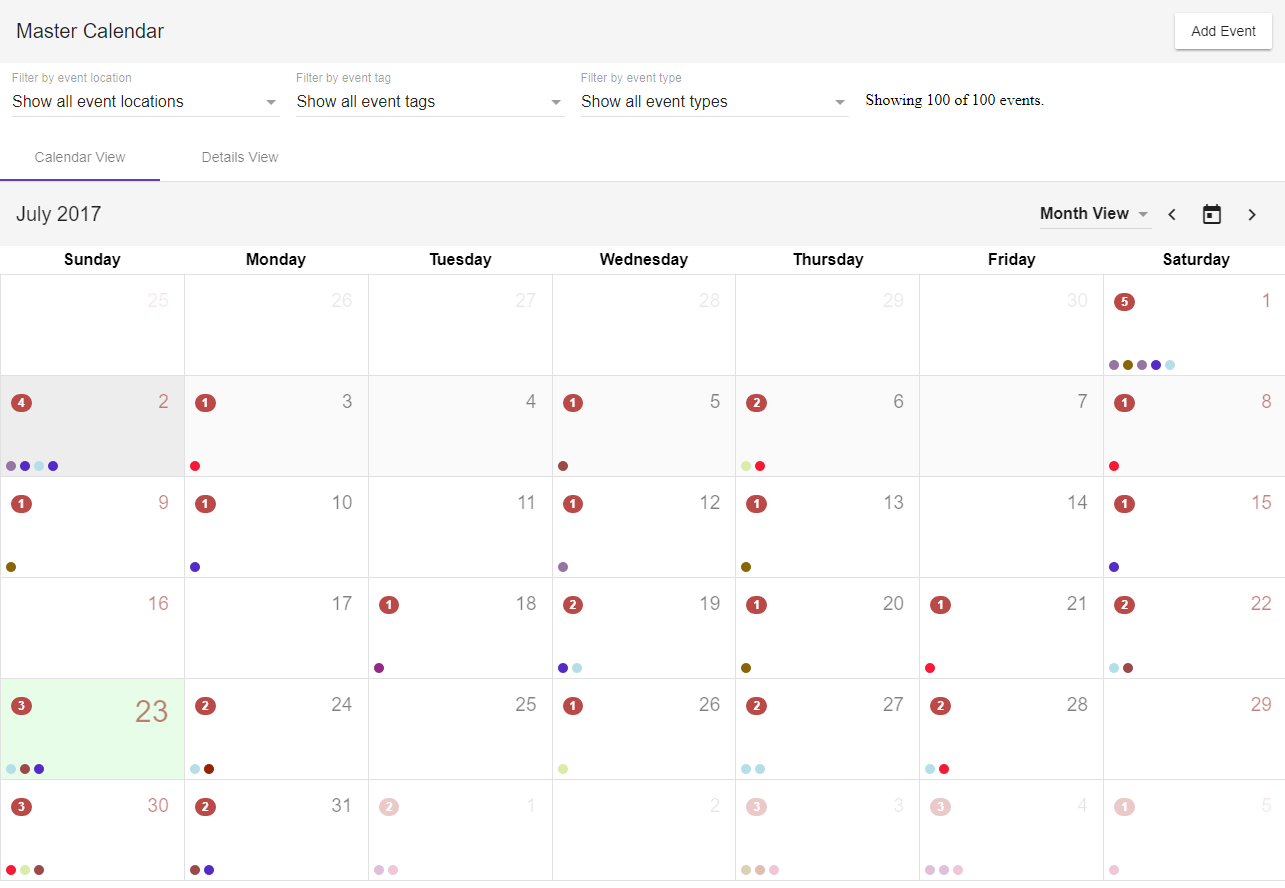
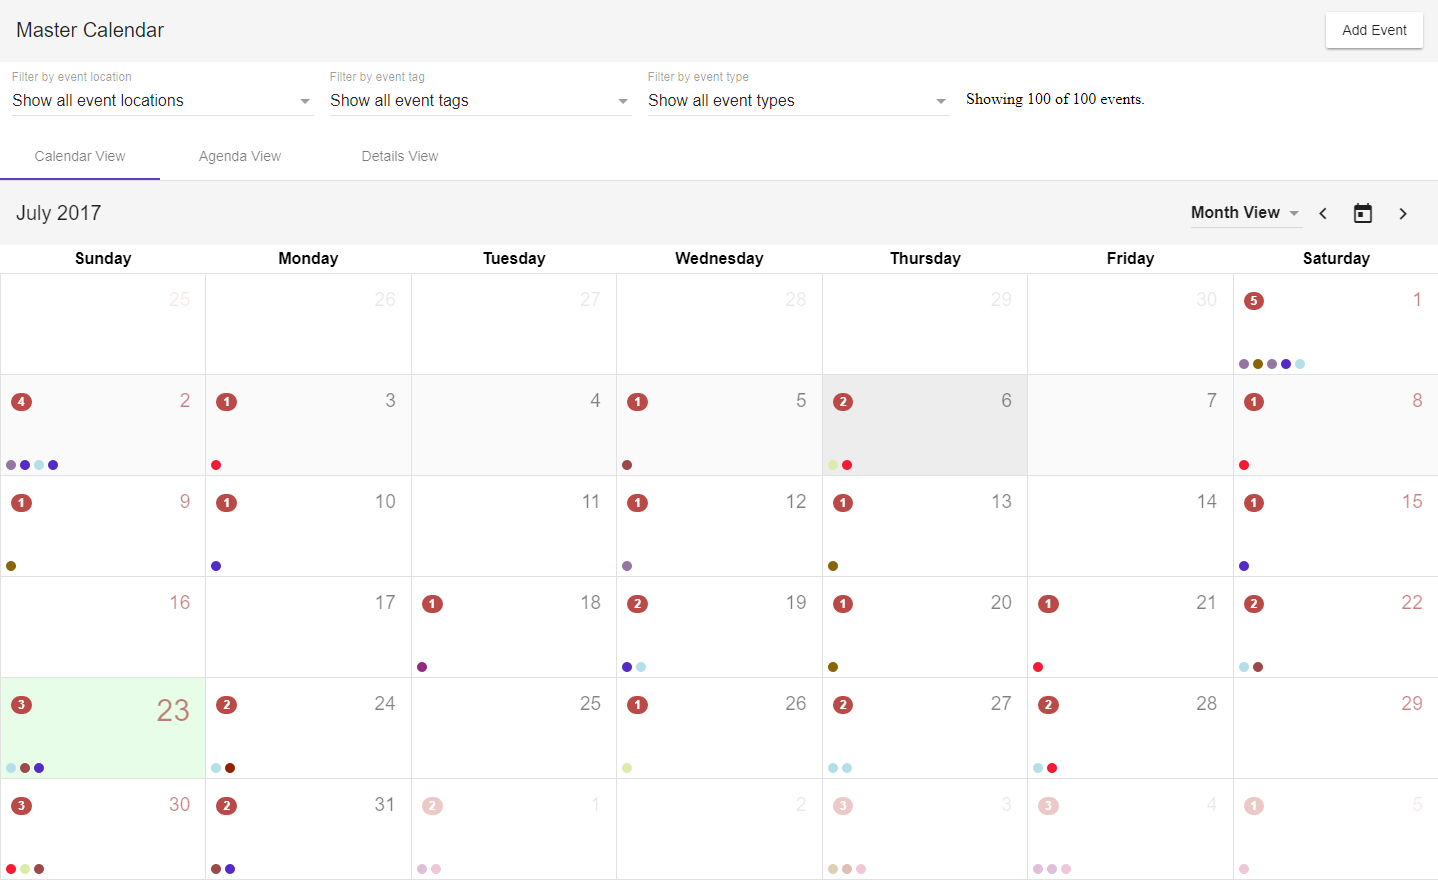
feat: add event agenda view, closes #10

diff --git a/src/app/shared/app-shared.module.ts b/src/app/shared/app-shared.module.ts
@@ -9,6 +9,7 @@ import { AngularFireDatabaseModule } from 'angularfire2/database';
 import { ConfirmDialogComponent } from './../dialogs/confirm-dialog/confirm-dialog.component';
 import { EditEventDialogComponent } from './../dialogs/edit-event-dialog/edit-event-dialog.component';
 import { ViewEventDialogComponent } from './../dialogs/view-event-dialog/view-event-dialog.component';
+import { EventAgendaViewComponent } from './components/event-agenda-view/event-agenda-view.component';
 import { EventCalendarViewComponent } from './components/event-calendar-view/event-calendar-view.component';
 import { EventDetailsViewComponent } from './components/event-details-view/event-details-view.component';
 import { EventFilterComponent } from './components/event-filter/event-filter.component';
@@ -25,6 +26,7 @@ import { FirebaseService } from './services/firebase.service';
 const components = [
   ConfirmDialogComponent,
   EditEventDialogComponent,
+  EventAgendaViewComponent,
   EventCalendarViewComponent,
   EventDetailsViewComponent,
   EventFilterComponent,

diff --git a/src/app/shared/components/event-agenda-view/event-agenda-view.component.ts b/src/app/shared/components/event-agenda-view/event-agenda-view.component.ts
@@ -1,0 +1,23 @@
+import { Component, Input } from '@angular/core';
+import { MdDialog } from '@angular/material';
+
+import { ViewEventDialogComponent } from './../../../dialogs/view-event-dialog/view-event-dialog.component';
+import { EventsService, EventDetail } from './../../services/events.service';
+import { BaseEventViewComponent } from './../base-event-view.component';
+
+@Component({
+  selector: 'app-event-agenda-view',
+  templateUrl: './event-agenda-view.component.html',
+  styleUrls: ['./event-agenda-view.component.scss']
+})
+export class EventAgendaViewComponent extends BaseEventViewComponent {
+  @Input() events: EventDetail[];
+
+  constructor(dialogService: MdDialog, eventsService: EventsService) {
+    super(dialogService, eventsService);
+  }
+
+  getEndFormat(event: EventDetail) {
+    return ViewEventDialogComponent.getEndFormat(event);
+  }
+}

diff --git a/src/app/shared/components/event-agenda-view/event-agenda-view.component.spec.ts b/src/app/shared/components/event-agenda-view/event-agenda-view.component.spec.ts
@@ -1,0 +1,25 @@
+import { async, ComponentFixture, TestBed } from '@angular/core/testing';
+
+import { EventAgendaViewComponent } from './event-agenda-view.component';
+
+describe('EventAgendaViewComponent', () => {
+  let component: EventAgendaViewComponent;
+  let fixture: ComponentFixture<EventAgendaViewComponent>;
+
+  beforeEach(async(() => {
+    TestBed.configureTestingModule({
+      declarations: [ EventAgendaViewComponent ]
+    })
+    .compileComponents();
+  }));
+
+  beforeEach(() => {
+    fixture = TestBed.createComponent(EventAgendaViewComponent);
+    component = fixture.componentInstance;
+    fixture.detectChanges();
+  });
+
+  it('should be created', () => {
+    expect(component).toBeTruthy();
+  });
+});

diff --git a/src/app/dialogs/view-event-dialog/view-event-dialog.component.ts b/src/app/dialogs/view-event-dialog/view-event-dialog.component.ts
@@ -22,7 +22,7 @@ export class ViewEventDialogComponent extends BaseComponent {
     super();
 
     this.event = this.eventsService.getEvent(this.eventKey);
-    this.endFormat = this.event.map(event => isSameDay(event.start, event.end) ? 'h:mm a' : 'MMM d, y h:mm a');
+    this.endFormat = this.event.map(event => ViewEventDialogComponent.getEndFormat(event));
   }
 
   static showDialog(dialogService: MdDialog, eventKey: string) {
@@ -42,4 +42,7 @@ export class ViewEventDialogComponent extends BaseComponent {
     return dialogRef;
   }
 
+  static getEndFormat(event: EventDetail) {
+    return isSameDay(event.start, event.end) ? 'h:mm a' : 'MMM d, y h:mm a';
+  }
 }

diff --git a/src/app/shared/components/event-agenda-view/event-agenda-view.component.html b/src/app/shared/components/event-agenda-view/event-agenda-view.component.html
@@ -1,0 +1,9 @@
+<div class="agenda-list">
+  <md-list>
+    <md-list-item *ngFor="let event of events" class="event" (click)="viewEvent(event)">
+      <h4 md-line>{{ event.title }}</h4>
+      <p md-line class="icon-line"><md-icon>today</md-icon><span class="label">{{ event.start | date:'MMM d, y h:mm a' }} until {{ event.end | date:getEndFormat(event) }}</span></p>
+      <p md-line class="icon-line"><md-icon>location_on</md-icon><span class="label">{{ event.location.address }}</span></p>
+    </md-list-item>
+  </md-list>
+</div>

diff --git a/src/app/shared/components/event-agenda-view/event-agenda-view.component.scss b/src/app/shared/components/event-agenda-view/event-agenda-view.component.scss
@@ -1,0 +1,29 @@
+.agenda-list {
+  padding: 10px;
+
+  h4 {
+    padding-bottom: 8px;
+  }
+
+  .event {
+    cursor: pointer;
+
+    &:hover {
+      background-color: whitesmoke;
+    }
+
+    .icon-line {
+      position: relative;
+
+      .material-icons {
+        color: gray;
+      }
+
+      .label {
+        position: absolute;
+        top: 6px;
+        left: 30px;
+      }
+    }
+  }
+}

diff --git a/src/app/pages/home/home.component.html b/src/app/pages/home/home.component.html
@@ -13,6 +13,9 @@
   <md-tab label="Calendar View">
     <app-event-calendar-view [events]="events | async"></app-event-calendar-view>
   </md-tab>
+   <md-tab label="Agenda View">
+    <app-event-agenda-view [events]="events | async"></app-event-agenda-view>
+  </md-tab>
   <md-tab label="Details View">
     <app-event-details-view [events]="events | async"></app-event-details-view>
   </md-tab>

diff --git a/src/app/shared/modules/app-component-library.module.ts b/src/app/shared/modules/app-component-library.module.ts
@@ -8,6 +8,7 @@ import {
   MdDatepickerModule,
   MdIconModule,
   MdInputModule,
+  MdListModule,
   MdNativeDateModule,
   MdSelectModule,
   MdSnackBarModule,
@@ -28,6 +29,7 @@ const materialModules = [
   MdDatepickerModule,
   MdIconModule,
   MdInputModule,
+  MdListModule,
   MdNativeDateModule,
   MdSelectModule,
   MdSnackBarModule,
